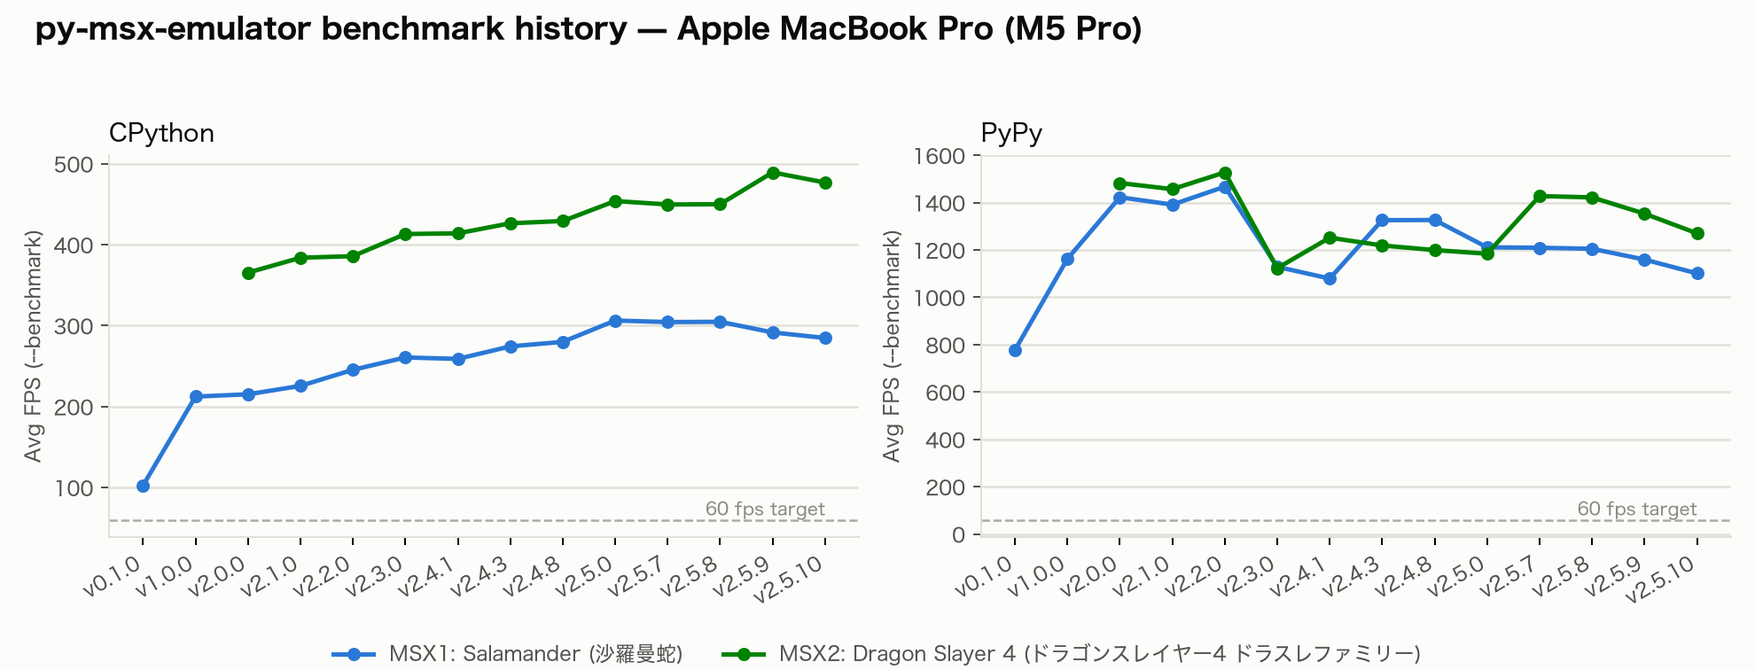
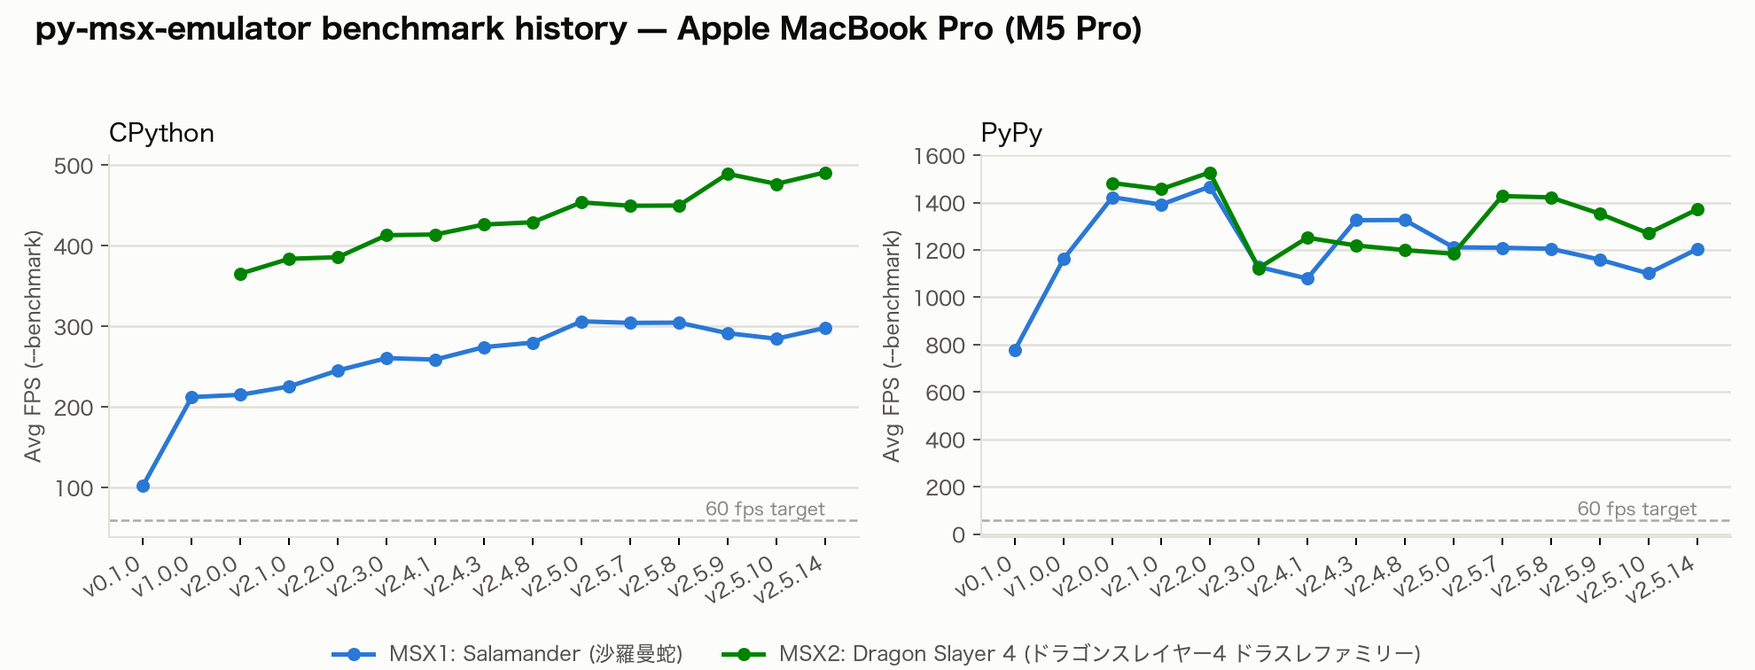
docs(readme): update test count, extension/mapper2 options, history, and benchmark history to v2.5.14
Bump the test badge to 2619 passing; restrict the documented --extension
choices to none/fmpac/scc_plus/hbi_j1 and add KonamiSCC to --mapper2's
accepted values (now shares the machine's single SCC chip with slot 1
instead of being rejected). Add Game Master II to the physically-owned
ROM list. Consolidate the History section into concise v2.5.13 (Sony
HBI-J1 + V9938 interlace mode) and v2.5.14 (--extension unification)
entries and unify line wrapping across all entries. Refresh the
benchmark table and history charts to the v2.5.14 measurements.

diff --git a/README_ja.md b/README_ja.md
@@ -2,7 +2,7 @@
 
 機械可読なコンポーネント仕様書によって駆動される、純粋な Python 3.10+ で書かれた機能的に正確な MSX1/MSX2 エミュレータです。
 
-![Python](https://img.shields.io/badge/python-3.10%2B-blue) ![License](https://img.shields.io/badge/license-MIT-green) ![Tests](https://img.shields.io/badge/tests-2530%20passing-brightgreen)
+![Python](https://img.shields.io/badge/python-3.10%2B-blue) ![License](https://img.shields.io/badge/license-MIT-green) ![Tests](https://img.shields.io/badge/tests-2619%20passing-brightgreen)
 
 [English README is here](README.md)
 
@@ -21,6 +21,7 @@
   - [沙羅曼蛇（Salamander）— KONAMI](https://ja.wikipedia.org/wiki/%E6%B2%99%E7%BE%85%E6%9B%BC%E8%9B%87)
   - [グラディウス2（Nemesis 2）— KONAMI](https://ja.wikipedia.org/wiki/%E3%82%B0%E3%83%A9%E3%83%87%E3%82%A3%E3%82%A6%E3%82%B92)
   - [夢大陸アドベンチャー（Penguin Adventure）— KONAMI](https://ja.wikipedia.org/wiki/%E5%A4%A2%E5%A4%A7%E9%99%B8%E3%82%A2%E3%83%89%E3%83%99%E3%83%B3%E3%83%81%E3%83%A3%E3%83%BC)
+  - [Game Master II（新10倍カートリッジ）— KONAMI](https://en.wikipedia.org/wiki/Konami_Game_Master)
 - **MSX2:**
   - [ドラゴンスレイヤーIV ドラスレファミリー（Legacy of the Wizard）— Falcom](https://ja.wikipedia.org/wiki/%E3%83%89%E3%83%A9%E3%82%B4%E3%83%B3%E3%82%B9%E3%83%AC%E3%82%A4%E3%83%A4%E3%83%BCIV_%E3%83%89%E3%83%A9%E3%82%B9%E3%83%AC%E3%83%95%E3%82%A1%E3%83%9F%E3%83%AA%E3%83%BC)
   - [ロマンシア（Romancia）— Falcom](https://ja.wikipedia.org/wiki/%E3%83%AD%E3%83%9E%E3%83%B3%E3%82%B7%E3%82%A2)
@@ -84,7 +85,7 @@
 - 既知の制限：
   - コマンドタイミングは近似値；ビームレースの書き込みやフレーム内の VRAM ダブルバッファは忠実に再現されない。
   - GRAPHIC 6/7 のプレーナ VRAM インターリーブ（実機はこれらのモードを 2 個の VRAM IC に偶数/奇数バイトで分割する）はモデル化されておらず、代わりにリニアアドレッシングモデルを使用している。これはプレーナモードで書き込んだ VRAM 内容を、クリアを挟まずに非プレーナモードへ切り替えて読み戻した場合にのみ差異が生じる。
-  - TEXT2（SCREEN 0 WIDTH 80）の点滅色/点滅レート（R#12/R#13）は未実装のため、点滅する文字も交互に色が変わらず単一の固定色で表示される。インターレースモード/自動オルタネートスクリーン・ページ表示（R#9 ビット3/R#13 レート）も未実装のため、インターレースやページフリップされた出力は生成されない。
+  - TEXT2（SCREEN 0 WIDTH 80）の点滅色/点滅レート（R#12/R#13）は未実装のため、点滅する文字も交互に色が変わらず単一の固定色で表示される。R#9 の EO ビットは GRAPHIC4-7 の自動偶数/奇数ページ切り替え（実機の V9938 の挙動と一致）を駆動するが、真のインターレース（垂直解像度2倍）出力を生む半走査線単位の CRT フィールド融合シフトは、描画のシンプルさ/パフォーマンスを優先して意図的に対象外としている。
   - フレームスキップ中はスキップされたフレームで5番目スプライト/コインシデンスステータスが更新されないため、ターボモード中に衝突判定をポーリングする ROM は古い（最後に描画したフレームの）ステータスを見ることになる。
 
 ### PSG — AY-3-8910
@@ -208,7 +209,7 @@ MSX1 は 4 ページ × 4 スロットのディスパッチ：スロット 0 に
 | `KoeiSRAM32Mapper` | ASCII8 + 32 KB バッテリーバックアップ SRAM；SRAM 選択可能ウィンドウに 0x4000 を追加 |
 | `GameMaster2Mapper` | Konami 系 128 KB ROM + 8 KB バッテリーバックアップ SRAM；各バンクレジスタで ROM ページまたは 4 KB SRAM 半分（8 KB ウィンドウ内でミラー）を選択、SRAM 書き込みは 0xB000–0xBFFF |
 
-スロット 2 は `--mapper2` で独立して制御します（デフォルトは自動検出）。`KonamiSCC` はスロット 2 では無効です。ROM データベースがスロット 2 カートリッジに対して `KonamiSCC` を返した場合、警告を stderr に表示したうえで `Konami` マッパーに自動フォールバックします。
+スロット 2 は `--mapper2` で独立して制御します（デフォルトは自動検出）。`KonamiSCC` はスロット 2 でも有効です — Konami のスロットコンバータカートリッジ（スロット 1 に挿し、スロット 2 の実カートリッジをスロット 1 として見せかけるパススルーカートリッジ）の背後などで、実機の KonamiSCC カートリッジが物理的にスロット 2 を占有するケースを想定しています。ただしスロット 1・スロット 2 はマシン単一の `SCC` チップを共有するため、両方のスロットが同時に `KonamiSCC` に解決された場合は `MachineLoadError` が送出されます。
 
 ### フロッピーディスクドライブ（WD2793）
 
@@ -344,22 +345,22 @@ All VRAM addresses SHALL be masked to 14 bits (`& 0x3FFF`).
 
 | プラットフォーム | ランタイム | ゲーム | 平均 FPS（`--benchmark`） | 60 fps 目標との比 |
 | --- | --- | --- | --- | --- |
-| Apple MacBook Pro（M5 Pro） | CPython 3.12.13 | MSX1: 沙羅曼蛇（KonamiSCC） | 284.72 | 約 4.7 倍 |
-| Apple MacBook Pro（M5 Pro） | CPython 3.12.13 | MSX2: ドラゴンスレイヤー4（ASCII8） | 476.83 | 約 7.9 倍 |
-| Apple MacBook Pro（M5 Pro） | PyPy 7.3.19（Python 3.10.16） | MSX1: 沙羅曼蛇（KonamiSCC） | 1101.15 | 約 18.4 倍 |
-| Apple MacBook Pro（M5 Pro） | PyPy 7.3.19（Python 3.10.16） | MSX2: ドラゴンスレイヤー4（ASCII8） | 1270.47 | 約 21.2 倍 |
-| Raspberry Pi 5 | CPython 3.12.13 | MSX1: 沙羅曼蛇（KonamiSCC） | 76.32 | 約 1.3 倍 |
-| Raspberry Pi 5 | CPython 3.12.13 | MSX2: ドラゴンスレイヤー4（ASCII8） | 128.27 | 約 2.1 倍 |
-| Raspberry Pi 5 | PyPy 7.3.19（Python 3.10.16） | MSX1: 沙羅曼蛇（KonamiSCC） | 287.51 | 約 4.8 倍 |
-| Raspberry Pi 5 | PyPy 7.3.19（Python 3.10.16） | MSX2: ドラゴンスレイヤー4（ASCII8） | 419.97 | 約 7.0 倍 |
+| Apple MacBook Pro（M5 Pro） | CPython 3.12.13 | MSX1: 沙羅曼蛇（KonamiSCC） | 298.16 | 約 5.0 倍 |
+| Apple MacBook Pro（M5 Pro） | CPython 3.12.13 | MSX2: ドラゴンスレイヤー4（ASCII8） | 491.12 | 約 8.2 倍 |
+| Apple MacBook Pro（M5 Pro） | PyPy 7.3.19（Python 3.10.16） | MSX1: 沙羅曼蛇（KonamiSCC） | 1203.21 | 約 20.1 倍 |
+| Apple MacBook Pro（M5 Pro） | PyPy 7.3.19（Python 3.10.16） | MSX2: ドラゴンスレイヤー4（ASCII8） | 1370.83 | 約 22.8 倍 |
+| Raspberry Pi 5 | CPython 3.12.13 | MSX1: 沙羅曼蛇（KonamiSCC） | 75.64 | 約 1.3 倍 |
+| Raspberry Pi 5 | CPython 3.12.13 | MSX2: ドラゴンスレイヤー4（ASCII8） | 127.27 | 約 2.1 倍 |
+| Raspberry Pi 5 | PyPy 7.3.19（Python 3.10.16） | MSX1: 沙羅曼蛇（KonamiSCC） | 296.31 | 約 4.9 倍 |
+| Raspberry Pi 5 | PyPy 7.3.19（Python 3.10.16） | MSX2: ドラゴンスレイヤー4（ASCII8） | 430.75 | 約 7.2 倍 |
 
-今回計測したすべての組み合わせが、生の 60 fps 目標をクリアしています。最も余裕が小さいのは Raspberry Pi 5 + CPython で沙羅曼蛇（MSX1、KonamiSCC マッパー — 対象タイトルの中で描画・オーディオ負荷が最も重い）を実行した場合で、約 1.3 倍です。PyPy に切り替えると同じケースが約 4.8 倍まで上がります。Raspberry Pi 5 より低速なハードウェア、あるいはより重いタイトルでは 60 fps を下回ることがあり、その場合は達成されたフレームレートに比例してゲームがスローモーションで動作します。オーディオサンプルはフレームごとに生成される一方でオーディオデバイスは常に 44100 Hz で消費するため、オーディオも劣化します（クリックノイズや無音）。PyPy3 はそのまま代替として使えるランタイムであり、処理能力の低いハードウェアでのスループットを大幅に改善するため、Raspberry Pi のような制約のあるハードウェアで余裕を保つために推奨されます。
+今回計測したすべての組み合わせが、生の 60 fps 目標をクリアしています。最も余裕が小さいのは Raspberry Pi 5 + CPython で沙羅曼蛇（MSX1、KonamiSCC マッパー — 対象タイトルの中で描画・オーディオ負荷が最も重い）を実行した場合で、約 1.3 倍です。PyPy に切り替えると同じケースが約 4.9 倍まで上がります。Raspberry Pi 5 より低速なハードウェア、あるいはより重いタイトルでは 60 fps を下回ることがあり、その場合は達成されたフレームレートに比例してゲームがスローモーションで動作します。オーディオサンプルはフレームごとに生成される一方でオーディオデバイスは常に 44100 Hz で消費するため、オーディオも劣化します（クリックノイズや無音）。PyPy3 はそのまま代替として使えるランタイムであり、処理能力の低いハードウェアでのスループットを大幅に改善するため、Raspberry Pi のような制約のあるハードウェアで余裕を保つために推奨されます。
 
 PyPy の数値は CPython よりも実行ごとのブレが大きくなりやすい点に注意してください。特定の（プラットフォーム、ゲーム）の組み合わせで、通常の範囲から大きく外れた値が出ることがあります。エミュレータ自体の問題というより、OS/ハードウェア側のスケジューリング挙動（コア間の移動やサーマルスロットリングなど）が原因である可能性が高いです。PyPy の数値は正確な値というより、大まかな目安として捉えてください。
 
 ### ベンチマーク推移
 
-v0.1.0 から v2.5.10 までの平均 FPS（`--benchmark`）の推移（プラットフォーム・ランタイム別）：
+v0.1.0 から v2.5.14 までの平均 FPS（`--benchmark`）の推移（プラットフォーム・ランタイム別）：
 
 ![Apple MacBook Pro（M5 Pro）でのベンチマーク推移](assets/bench-history-m5pro.png)
 
@@ -502,8 +503,8 @@ python . path/to/game.rom --benchmark 30000 --resume saves/states/game_20260605_
 | `--scale N` | `3` | 256×212 ベース解像度に対する整数の拡大率（例：小さいディスプレイなら `2`、大きいディスプレイなら `4`） |
 | `--mapper TYPE` | `auto` | スロット 1 マッパー：`auto`、`Mirrored`、`Normal`、`ASCII8`、`ASCII16`、`Konami`、`KonamiSCC`、`Majutsushi`、`ASCII8SRAM2`、`ASCII8SRAM8`、`ASCII16SRAM2`、`ASCII16SRAM8`、`R-Type`、`Page2`、`0x4000`、`0x8000`、`KoeiSRAM32`、`GameMaster2` |
 | `--slot2 ROM2` | _（なし）_ | スロット 2 カートリッジ ROM のパス |
-| `--mapper2 TYPE` | `auto` | スロット 2 マッパー：`auto`、`Mirrored`、`Normal`、`ASCII8`、`ASCII16`、`Konami`、`Majutsushi`（スロット 2 では KonamiSCC 非対応） |
-| `--extension {fmpac,scc_plus,hbi_j1}` | _（なし）_ | スロット 2 の拡張デバイスをオーバーレイ：`fmpac`（MSX-MUSIC + 8 KB SRAM）、`scc_plus`（SCC-I / SCC+ カートリッジ）、または `hbi_j1`（Sony HBI-J1：漢字ROM + MSX-JE + 漢字ドライバ/BASIC、スロット2を2つのサブスロットに拡張）。`--slot2`/`--mapper2` と併用不可 |
+| `--mapper2 TYPE` | `auto` | スロット 2 マッパー：`auto`、`Mirrored`、`Normal`、`ASCII8`、`ASCII16`、`Konami`、`KonamiSCC`、`Majutsushi`（KonamiSCC はスロット 1 とマシン単一の SCC チップを共有；スロット 1 も KonamiSCC に解決される場合は拒否） |
+| `--extension {none,fmpac,scc_plus,hbi_j1}` | _（なし）_ | スロット 2 の拡張デバイスをオーバーレイ：`fmpac`（MSX-MUSIC + 8 KB SRAM）、`scc_plus`（SCC-I / SCC+ カートリッジ）、または `hbi_j1`（Sony HBI-J1：漢字ROM + MSX-JE + 漢字ドライバ/BASIC、スロット2を2つのサブスロットに拡張）。`--slot2`/`--mapper2` と併用不可。`none` は `py_emulator.yaml` が拡張を設定していても強制的に拡張なしにし、`--slot2`/`--mapper2` を CLI で使えるようにする |
 | `--fdd1 DSK` | _（なし）_ | ドライブ A にマウントするフロッピー `*.dsk` イメージ（FDC 搭載機、例：`hb_f1xd`）。書き込みは終了時にファイルへ反映 |
 | `--fdd2 DSK` | _（なし）_ | ドライブ B にマウントするフロッピー `*.dsk` イメージ（2 ドライブ機のみ） |
 | `--resume [FILE]` | _（なし）_ | `saves/states/latest.state` から復帰（引数なし）、または特定の `.state` ファイルから復帰 |
@@ -838,7 +839,7 @@ py-msx-emulator/
 │   ├── memory.py          # スロットベースのメモリバス
 │   ├── mapper.py          # カートリッジマッパー（Flat、ASCII8/16、Konami、SCC、Halnote...）
 │   ├── mapper_tracer.py   # カートリッジバンク切り替えトレーサ
-│   ├── kanji.py           # JIS漢字フォントROM I/Oデバイス（Sony HBI-J1）
+│   ├── kanji.py           # JIS漢字フォントROM I/Oデバイス
 │   ├── ram_mapper.py      # MSX2 RAM マッパー（128 KB、8 セグメント）
 │   ├── rtc.py             # RP5C01 リアルタイムクロック
 │   ├── psg.py             # AY-3-8910 PSG + オーディオ合成（サブフレーム PCM）
@@ -912,45 +913,10 @@ MIT — [LICENSE](LICENSE) を参照してください。
 
 ## 更新履歴
 
-- **v2.5.14** (2026-09-10) — `--extension hbi-j1` で Sony HBI-J1 サポートを
-  追加：JIS漢字フォントROM I/Oデバイス（`msx/kanji.py`、ポート
-  `0xD8-0xDB`）、Halnoteマッパー方式のMSX-JEワードプロセッサROM + 16 KB
-  SRAM（`msx/mapper.py:HalnoteMapper`）、フラットな漢字ドライバ+BASIC
-  ROM。スロット2自体をサブスロット化する新しい*拡張*エクステンション
-  オーバーレイ形状（`cart-extension-overlay` の `shape: expanded`）で配線
-  ——FM-PAC/SCC-Iはいずれも単一のフラットデバイスだったため、これを必要と
-  する最初の拡張。`Memory` はプライマリスロット2をスロット3自体の拡張と
-  独立に拡張可能にした（標準的なMSX2機のスロット3拡張とHBI-J1のスロット2
-  拡張が共存し、それぞれ独自のセカンダリスロットレジスタを持つ）。セーブ
-  ステート形式はバージョン10に更新——`slot2_sub_slot_reg` と、SCC-Iを踏襲
-  した専用の `machine.halnote_cart` 状態パスを追加。著者はこの実機を物理
-  的に所有し、そのROMをダンプ済み（openMSXに対してSHA1検証済み）。
-- **v2.5.13** (2026-09-10) — `--fmpac`/`--scc-plus`（および
-  `py_emulator.yaml` の `fmpac`/`scc_plus` キー）を、単一の `--extension
-  {fmpac,scc-plus}` フラグ（`extension` 設定キー）に統合。
-  `config/extensions/<id>.yaml` オーバーレイファイルで定義。**破壊的変更**：
-  SCC-I（`scc-plus`）はスロット 1 ではなくプライマリスロット 2 を占有するよ
-  うになった——スロット 1 のカートリッジや `--mapper` と自由に併用できるよう
-  になった一方、`--fmpac` との併用（拡張は同時に1つのみ）はできなくなった。
-  `--extension`（いずれの値でも）は `--slot2`/`--mapper2` と併用不可。セーブ
-  ステート形式はバージョン 8 に更新——スロット 2 には汎用のマッパー状態機構
-  がないため、FM-PAC と同様の専用状態パスを SCC-I 用に新設。
-- **v2.5.12** (2026-09-09) — `RamMapper` のサイズを可変化（16KB単位のバンクで
-  設定可能、従来は128KB固定）。あわせて、slot 3のlegacy（RAM mapper）ディス
-  パッチ分岐でもFDCをRAM mapperと併用できるようにした——従来はFDCの搭載に
-  data-drivenのflat RAM構成が必須だった。実機Sony HB-F1XDのBIOS/SUB-ROM/FDC
-  構成を流用しつつRAM mapperを256KBに変更した仮想機種 `hb_f1xd_256` を追加
-  （この構成の実機は存在しない）——MSX-DOS2の拡張BIOSマッパーサポートルー
-  チンが要求する128KB以上のRAM mapperを満たすための構成で、MSX-DOS2の起動を
-  確認済み。あわせて、V9938のTEXT2モード（SCREEN 0 WIDTH 80、MSX-DOSの
-  `MODE 80`）を実装——従来はGRAPHIC2背景＋スプライトモード2として誤ディス
-  パッチされ画面が崩れていた問題を、モードビット判定の優先順位修正・80桁/
-  512幅の専用レンダラー追加・`display_width`とデバッガの画面モード表示の
-  拡張により解消。MSX-DOSでの動作を確認済み。
-- **v2.5.11** (2026-09-06) — `py_emulator.yaml` の `mapper`/`mapper2` 設定
-  キーを削除し、カートリッジマッパー選択を CLI 専用（`--mapper` /
-  `--mapper2`）に統一。設定ファイル側のデフォルトが `--scc-plus` との排他
-  チェックを誤って発火させていた不具合を修正。
+- **v2.5.14** (2026-09-12) — `--fmpac`/`--scc-plus` を統合し、単一の `--extension {none,fmpac,scc_plus,hbi_j1}` フラグに置き換え（`extension` 設定キー、`config/extensions/<id>.yaml` オーバーレイファイルで定義）。各拡張はプライマリスロット 2 を無条件に占有する。**破壊的変更**：SCC-I はスロット 1 ではなくプライマリスロット 2 を占有するようになった。`--mapper2` も `KonamiSCC` に対応——スロット 1 とマシン単一の SCC チップを共有する。
+- **v2.5.13** (2026-09-12) — `--extension hbi_j1` で Sony HBI-J1 サポートを追加（JIS漢字フォントROM I/Oデバイス、Halnoteマッパー方式のMSX-JEワードプロセッサROM + 16 KB SRAM、フラットな漢字ドライバ+BASIC ROM——スロット2を2つのサブスロットに拡張。著者はこの実機を物理的に所有し、そのROMをダンプ済み・openMSXに対してSHA1検証済み）。あわせて V9938 のインターレースモード（R#9 の IL/EO ビット、EO による GRAPHIC4-7 の自動偶数/奇数ページ切り替え——実機 V9938 の挙動と一致）を追加。
+- **v2.5.12** (2026-09-09) — `RamMapper` のサイズを可変化（16KB単位のバンクで設定可能、従来は128KB固定）。あわせて、slot 3のlegacy（RAM mapper）ディスパッチ分岐でもFDCをRAM mapperと併用できるようにした——従来はFDCの搭載にdata-drivenのflat RAM構成が必須だった。実機Sony HB-F1XDのBIOS/SUB-ROM/FDC構成を流用しつつRAM mapperを256KBに変更した仮想機種 `hb_f1xd_256` を追加（この構成の実機は存在しない）——MSX-DOS2の拡張BIOSマッパーサポートルーチンが要求する128KB以上のRAM mapperを満たすための構成で、MSX-DOS2の起動を確認済み。あわせて、V9938のTEXT2モード（SCREEN 0 WIDTH 80、MSX-DOSの `MODE 80`）を実装——従来はGRAPHIC2背景＋スプライトモード2として誤ディスパッチされ画面が崩れていた問題を、モードビット判定の優先順位修正・80桁/512幅の専用レンダラー追加・`display_width`とデバッガの画面モード表示の拡張により解消。MSX-DOSでの動作を確認済み。
+- **v2.5.11** (2026-09-06) — `py_emulator.yaml` の `mapper`/`mapper2` 設定キーを削除し、カートリッジマッパー選択を CLI 専用（`--mapper` / `--mapper2`）に統一。設定ファイル側のデフォルトが `--scc-plus` との排他チェックを誤って発火させていた不具合を修正。
 - **v2.5.10** (2026-09-01) — 未整備だったコンポーネント（RTC、フロッピーディスクイメージ/ドライブ、plain/fixed-page マッパー、I/O バス、Z80 の ED/CB/DD/FD プレフィックス群）向けに Allium 仕様を追加し、その過程で見つかった実バグを複数修正：RTC の CMOS RAM をマシンごとに `saves/sram/rtc_<machine_id>.sram` へ永続化する対応（従来は単一の共有ファイルで、あるマシンの設定が別マシンに漏れる不具合があった）と 12/24 時間モードのエンコード不具合修正、および Z80 の非公式命令 DDCB/FDCB のレジスタエコー動作の実装漏れ。あわせて、フロッピーディスクの状態（WD2793/TC8566AF のレジスタ、ドライブ位置、マウント中ディスクの同一性）をステートセーブ/ロードに対応、FDC種別・ディスク同一性の不一致チェック付き。
 - **v2.5.9** (2026-08-25) — 全コンポーネントに対するOpenSpec/Alliumの棚卸しを実施し、各仕様書をopenMSXと実装に照らして再検証。その過程で見つかった精度バグを複数修正（V9938スプライト描画、ASCII8/ASCII16マッパーのバンク演算、SCC-Iモード同期、マウスプロトコルのタイミングなど）。
 - **v2.5.8** (2026-08-22) — TC8566AF FDC コントローラと Panasonic FS-A1F のマシン設定（`--machine fs_a1f`）を追加。Sony HB-F1XD（WD2793）に続く、2 台目のフロッピーディスク対応 MSX2。FS-A1F は実機通りの 4 サブスロット配置（RAM・SUB ROM・FDC をそれぞれ独立配置）を採用。

diff --git a/README.md b/README.md
@@ -5,7 +5,7 @@ by machine-readable component specifications.
 
 ![Python](https://img.shields.io/badge/python-3.10%2B-blue)
 ![License](https://img.shields.io/badge/license-MIT-green)
-![Tests](https://img.shields.io/badge/tests-2530%20passing-brightgreen)
+![Tests](https://img.shields.io/badge/tests-2619%20passing-brightgreen)
 
 [日本語版 README はこちら](README_ja.md)
 
@@ -25,6 +25,7 @@ software owned by the author.
   - [Salamander (沙羅曼蛇) by KONAMI](<https://en.wikipedia.org/wiki/Salamander_(video_game)>)
   - [Nemesis 2 (グラディウス2) by KONAMI](<https://en.wikipedia.org/wiki/Nemesis_2_(MSX)>)
   - [Penguin Adventure (夢大陸アドベンチャー) by KONAMI](https://en.wikipedia.org/wiki/Penguin_Adventure)
+  - [Game Master II (新10倍カートリッジ) by KONAMI](https://en.wikipedia.org/wiki/Konami_Game_Master)
 - **MSX2:**
   - [Legacy of the Wizard (ドラゴンスレイヤーIV ドラスレファミリー) by Falcom](https://en.wikipedia.org/wiki/Legacy_of_the_Wizard)
   - [Romancia (ロマンシア) by Falcom](https://en.wikipedia.org/wiki/Romancia)
@@ -126,9 +127,11 @@ mid-frame register and palette changes.
     mode without an intervening clear.
   - TEXT2 (SCREEN 0 WIDTH 80)'s blink colour/rate (R#12/R#13) is not
     implemented, so blinking characters render in a single fixed colour
-    instead of alternating. Interlaced mode / automatic alternate
-    screen-page display (R#9 bit 3 / R#13 rate) is also not implemented, so
-    no interlaced or page-flipped output is produced.
+    instead of alternating. R#9's EO bit drives GRAPHIC4-7's automatic
+    even/odd page alternation (matching real V9938 behaviour), but the
+    half-scanline CRT field-fusion shift that produces true interlaced
+    (double vertical resolution) output is a deliberate non-goal,
+    prioritizing rendering simplicity/performance.
   - During frame skip, sprite 5th-sprite/coincidence status is not updated
     on a skipped frame, so a ROM polling collision during turbo mode sees
     stale (last-rendered-frame) status.
@@ -317,9 +320,10 @@ Override with `--mapper`.
 | `GameMaster2Mapper` | Konami-style 128 KB ROM with 8 KB battery-backed SRAM; each bank register selects a ROM page or a 4 KB SRAM half (mirrored across the 8 KB window), SRAM writable at 0xB000–0xBFFF |
 
 Slot 2 uses a separate mapper controlled by `--mapper2` (auto-detected by
-default). `KonamiSCC` is not a valid mapper for slot 2; if the ROM database
-returns `KonamiSCC` for a slot 2 cartridge, the mapper automatically falls back
-to `Konami` with a warning on stderr.
+default). `KonamiSCC` is also valid there — a genuine Konami-SCC cartridge can
+physically occupy slot 2 (e.g. behind a Konami slot-converter cartridge in
+slot 1) — but slot 1 and slot 2 share the machine's single `SCC` chip:
+`MachineLoadError` is raised if both slots resolve to `KonamiSCC` at once.
 
 ### Floppy disk drive (WD2793)
 
@@ -522,19 +526,19 @@ score.
 
 | Platform | Runtime | Game | Avg FPS (`--benchmark`) | vs. 60 fps target |
 | --- | --- | --- | --- | --- |
-| Apple MacBook Pro (M5 Pro) | CPython 3.12.13 | MSX1: Salamander (KonamiSCC) | 284.72 | ~4.7× |
-| Apple MacBook Pro (M5 Pro) | CPython 3.12.13 | MSX2: Dragon Slayer 4 (ASCII8) | 476.83 | ~7.9× |
-| Apple MacBook Pro (M5 Pro) | PyPy 7.3.19 (Python 3.10.16) | MSX1: Salamander (KonamiSCC) | 1101.15 | ~18.4× |
-| Apple MacBook Pro (M5 Pro) | PyPy 7.3.19 (Python 3.10.16) | MSX2: Dragon Slayer 4 (ASCII8) | 1270.47 | ~21.2× |
-| Raspberry Pi 5 | CPython 3.12.13 | MSX1: Salamander (KonamiSCC) | 76.32 | ~1.3× |
-| Raspberry Pi 5 | CPython 3.12.13 | MSX2: Dragon Slayer 4 (ASCII8) | 128.27 | ~2.1× |
-| Raspberry Pi 5 | PyPy 7.3.19 (Python 3.10.16) | MSX1: Salamander (KonamiSCC) | 287.51 | ~4.8× |
-| Raspberry Pi 5 | PyPy 7.3.19 (Python 3.10.16) | MSX2: Dragon Slayer 4 (ASCII8) | 419.97 | ~7.0× |
+| Apple MacBook Pro (M5 Pro) | CPython 3.12.13 | MSX1: Salamander (KonamiSCC) | 298.16 | ~5.0× |
+| Apple MacBook Pro (M5 Pro) | CPython 3.12.13 | MSX2: Dragon Slayer 4 (ASCII8) | 491.12 | ~8.2× |
+| Apple MacBook Pro (M5 Pro) | PyPy 7.3.19 (Python 3.10.16) | MSX1: Salamander (KonamiSCC) | 1203.21 | ~20.1× |
+| Apple MacBook Pro (M5 Pro) | PyPy 7.3.19 (Python 3.10.16) | MSX2: Dragon Slayer 4 (ASCII8) | 1370.83 | ~22.8× |
+| Raspberry Pi 5 | CPython 3.12.13 | MSX1: Salamander (KonamiSCC) | 75.64 | ~1.3× |
+| Raspberry Pi 5 | CPython 3.12.13 | MSX2: Dragon Slayer 4 (ASCII8) | 127.27 | ~2.1× |
+| Raspberry Pi 5 | PyPy 7.3.19 (Python 3.10.16) | MSX1: Salamander (KonamiSCC) | 296.31 | ~4.9× |
+| Raspberry Pi 5 | PyPy 7.3.19 (Python 3.10.16) | MSX2: Dragon Slayer 4 (ASCII8) | 430.75 | ~7.2× |
 
 Every combination tested clears the raw 60 fps target. The tightest margin is
 Raspberry Pi 5 with CPython running Salamander (MSX1, KonamiSCC mapper — the
 heaviest rendering/audio load among the target titles) at ~1.3×; PyPy raises the
-same case to ~4.8×. On hardware weaker than a Raspberry Pi 5, or under a heavier
+same case to ~4.9×. On hardware weaker than a Raspberry Pi 5, or under a heavier
 title, a run can still drop below 60 fps — in which case the game runs in slow
 motion at a rate proportional to the achieved frame rate, and audio degrades
 (clicks or silence) because samples are generated per-frame while the audio
@@ -550,7 +554,7 @@ PyPy figures as broadly indicative rather than exact.
 
 ### Benchmark history
 
-Avg FPS (`--benchmark`) from v0.1.0 through v2.5.10, per platform and runtime:
+Avg FPS (`--benchmark`) from v0.1.0 through v2.5.14, per platform and runtime:
 
 ![Benchmark history on Apple MacBook Pro (M5 Pro)](assets/bench-history-m5pro.png)
 
@@ -710,8 +714,8 @@ python . path/to/game.rom --benchmark 30000 --resume saves/states/game_20260605_
 | `--scale N` | `3` | Integer window scale over the 256×212 base resolution (e.g. `2` for a small display, `4` for a large one) |
 | `--mapper TYPE` | `auto` | Slot 1 mapper: `auto`, `Mirrored`, `Normal`, `ASCII8`, `ASCII16`, `Konami`, `KonamiSCC`, `Majutsushi`, `ASCII8SRAM2`, `ASCII8SRAM8`, `ASCII16SRAM2`, `ASCII16SRAM8`, `R-Type`, `Page2`, `0x4000`, `0x8000`, `KoeiSRAM32`, `GameMaster2` |
 | `--slot2 ROM2` | _(none)_ | Path to the slot 2 cartridge ROM |
-| `--mapper2 TYPE` | `auto` | Slot 2 mapper: `auto`, `Mirrored`, `Normal`, `ASCII8`, `ASCII16`, `Konami`, `Majutsushi` (KonamiSCC not supported in slot 2) |
-| `--extension {fmpac,scc_plus,hbi_j1}` | _(none)_ | Overlay a slot 2 extension device: `fmpac` (MSX-MUSIC + 8 KB SRAM), `scc_plus` (an SCC-I / SCC+ cartridge), or `hbi_j1` (Sony HBI-J1: Kanji-ROM + MSX-JE + Kanji driver/BASIC, expands slot 2 into two sub-slots). Conflicts with `--slot2`/`--mapper2` |
+| `--mapper2 TYPE` | `auto` | Slot 2 mapper: `auto`, `Mirrored`, `Normal`, `ASCII8`, `ASCII16`, `Konami`, `KonamiSCC`, `Majutsushi` (KonamiSCC shares the machine's single SCC chip with slot 1; rejected if slot 1 also resolves to KonamiSCC) |
+| `--extension {none,fmpac,scc_plus,hbi_j1}` | _(none)_ | Overlay a slot 2 extension device: `fmpac` (MSX-MUSIC + 8 KB SRAM), `scc_plus` (an SCC-I / SCC+ cartridge), or `hbi_j1` (Sony HBI-J1: Kanji-ROM + MSX-JE + Kanji driver/BASIC, expands slot 2 into two sub-slots); conflicts with `--slot2`/`--mapper2`. `none` forces no extension overlay even when `py_emulator.yaml` sets one, freeing `--slot2`/`--mapper2` for CLI use |
 | `--fdd1 DSK` | _(none)_ | Floppy `*.dsk` image mounted in drive A (machines with an FDC, e.g. `hb_f1xd`); writes flush back to the file on exit |
 | `--fdd2 DSK` | _(none)_ | Floppy `*.dsk` image mounted in drive B (only on machines with two drives) |
 | `--resume [FILE]` | _(none)_ | Resume from `saves/states/latest.state`, or a specific `.state` file |
@@ -1074,7 +1078,7 @@ py-msx-emulator/
 │   ├── memory.py          # Slot-based memory bus
 │   ├── mapper.py          # Cartridge mappers (Flat, ASCII8/16, Konami, SCC, Halnote, ...)
 │   ├── mapper_tracer.py   # Cartridge bank-switch tracer
-│   ├── kanji.py           # JIS Kanji font ROM I/O device (Sony HBI-J1)
+│   ├── kanji.py           # JIS Kanji font ROM I/O device
 │   ├── ram_mapper.py      # MSX2 RAM mapper (128 KB, 8 segments)
 │   ├── rtc.py             # RP5C01 real-time clock
 │   ├── psg.py             # AY-3-8910 PSG + audio synthesis (sub-frame software PCM)
@@ -1166,48 +1170,10 @@ MIT — see [LICENSE](LICENSE).
 
 ## History
 
-- **v2.5.14** (2026-09-10) — Add Sony HBI-J1 support via `--extension
-  hbi-j1`: a JIS Kanji font ROM I/O device (`msx/kanji.py`, ports
-  `0xD8-0xDB`), a Halnote-mapped MSX-JE word-processor ROM + 16 KB SRAM
-  (`msx/mapper.py:HalnoteMapper`), and a flat Kanji driver + BASIC ROM,
-  wired via a new *expanded* extension-overlay shape that lets slot 2 itself
-  become an expanded slot with per-sub-slot devices (`cart-extension-
-  overlay`'s `shape: expanded`) — the first extension to need this, since
-  FM-PAC/SCC-I are each a single flat device. `Memory` now supports primary
-  slot 2 being independently expandable alongside slot 3's own expansion (a
-  standard MSX2 machine's slot 3 plus HBI-J1's slot 2 coexist, each with its
-  own secondary slot register). Save-state format bumps to version 10,
-  adding `slot2_sub_slot_reg` and a dedicated `machine.halnote_cart` state
-  path (mirroring SCC-I's). The author physically owns this cartridge and
-  dumped its ROMs (SHA1-verified against openMSX).
-- **v2.5.13** (2026-09-10) — Replace `--fmpac`/`--scc-plus` (and the
-  `fmpac`/`scc_plus` `py_emulator.yaml` keys) with a single `--extension
-  {fmpac,scc-plus}` flag (`extension` config key), backed by
-  `config/extensions/<id>.yaml` overlay files. **BREAKING**: SCC-I
-  (`scc-plus`) now occupies primary slot 2 instead of slot 1 — it can be
-  freely combined with a slot-1 cartridge and `--mapper` now, but can no
-  longer be combined with `--fmpac` (only one extension at a time).
-  `--extension` (any value) conflicts with `--slot2`/`--mapper2` instead.
-  Save-state format bumps to version 8, adding a dedicated SCC-I state path
-  (mirroring FM-PAC's) since slot 2 has no generic mapper-state coverage.
-- **v2.5.12** (2026-09-09) — `RamMapper`'s size is now configurable (whole
-  16 KB banks, previously fixed at 128 KB), and slot 3's legacy (RAM-mapper)
-  dispatch branch can now host an FDC alongside the RAM mapper — previously
-  an FDC required the data-driven flat-RAM layout instead. Adds
-  `hb_f1xd_256`, a hypothetical 256 KB RAM-mapper variant of the Sony
-  HB-F1XD (no real hardware matches this configuration) built to satisfy
-  MSX-DOS2's extended BIOS mapper support routines, which require a RAM
-  mapper of at least 128 KB; confirmed booting MSX-DOS2 successfully. Also
-  implements the V9938's TEXT2 mode (SCREEN 0 WIDTH 80, MSX-DOS's `MODE 80`)
-  — previously misdispatched as a GRAPHIC2 background with sprite mode 2
-  sprites, corrupting the screen — fixing the mode-bit dispatch priority,
-  adding a dedicated 80-column/512-wide renderer, and extending
-  `display_width` and the debugger's screen-mode display; confirmed on
-  MSX-DOS.
-- **v2.5.11** (2026-09-06) — Remove the `mapper`/`mapper2` `py_emulator.yaml`
-  config keys; cartridge mapper selection is now CLI-only (`--mapper` /
-  `--mapper2`). Fixes a config-file default silently and falsely tripping the
-  `--scc-plus`/`--mapper` mutual-exclusivity check.
+- **v2.5.14** (2026-09-12) — Replace `--fmpac`/`--scc-plus` with a unified `--extension {none,fmpac,scc_plus,hbi_j1}` flag (`extension` config key, backed by `config/extensions/<id>.yaml` overlay files), each extension unconditionally occupying primary slot 2. **BREAKING**: SCC-I now occupies primary slot 2 instead of slot 1. `--mapper2` also gains `KonamiSCC` support, sharing the machine's single SCC chip with slot 1.
+- **v2.5.13** (2026-09-12) — Add Sony HBI-J1 support via `--extension hbi_j1` (a JIS Kanji font ROM I/O device, a Halnote-mapped MSX-JE word-processor ROM + 16 KB SRAM, and a flat Kanji driver + BASIC ROM, expanding slot 2 into two sub-slots — the author physically owns this cartridge and dumped its ROMs, SHA1-verified against openMSX) and V9938 interlace mode (R#9 IL/EO bits, with EO driving GRAPHIC4-7's automatic even/odd page alternation, matching real V9938 behaviour).
+- **v2.5.12** (2026-09-09) — `RamMapper`'s size is now configurable (whole 16 KB banks, previously fixed at 128 KB), and slot 3's legacy (RAM-mapper) dispatch branch can now host an FDC alongside the RAM mapper — previously an FDC required the data-driven flat-RAM layout instead. Adds `hb_f1xd_256`, a hypothetical 256 KB RAM-mapper variant of the Sony HB-F1XD (no real hardware matches this configuration) built to satisfy MSX-DOS2's extended BIOS mapper support routines, which require a RAM mapper of at least 128 KB; confirmed booting MSX-DOS2 successfully. Also implements the V9938's TEXT2 mode (SCREEN 0 WIDTH 80, MSX-DOS's `MODE 80`) — previously misdispatched as a GRAPHIC2 background with sprite mode 2 sprites, corrupting the screen — fixing the mode-bit dispatch priority, adding a dedicated 80-column/512-wide renderer, and extending `display_width` and the debugger's screen-mode display; confirmed on MSX-DOS.
+- **v2.5.11** (2026-09-06) — Remove the `mapper`/`mapper2` `py_emulator.yaml` config keys; cartridge mapper selection is now CLI-only (`--mapper` / `--mapper2`). Fixes a config-file default silently and falsely tripping the `--scc-plus`/`--mapper` mutual-exclusivity check.
 - **v2.5.10** (2026-09-01) — Add Allium specs for the remaining uncovered components (RTC, floppy disk image/drive, plain/fixed-page mappers, I/O bus, and the Z80 ED/CB/DD/FD prefix groups), fixing several real bugs found along the way: RTC CMOS RAM now persists per machine to `saves/sram/rtc_<machine_id>.sram` (previously a single shared file let one machine's settings leak into another's) with a 12/24-hour encoding fix, and an undocumented Z80 DDCB/FDCB register-echo behavior is now implemented. Also adds full floppy disk state (WD2793/TC8566AF registers, drive position, mounted-disk identity) to save/load, with FDC-kind and disk-identity mismatch checks.
 - **v2.5.9** (2026-08-25) — Full OpenSpec/Allium inventory pass across every component, re-verifying each specification against openMSX and the implementation. Fixes several accuracy bugs found along the way (V9938 sprite rendering, ASCII8/ASCII16 mapper bank arithmetic, SCC-I mode sync, mouse protocol timing, among others).
 - **v2.5.8** (2026-08-22) — Add the TC8566AF FDC controller and a Panasonic FS-A1F machine configuration (`--machine fs_a1f`), a second floppy-disk-capable MSX2 alongside the Sony HB-F1XD (WD2793). FS-A1F now uses its real 4-sub-slot hardware layout (RAM, SUB ROM, and the FDC each independently placed).
